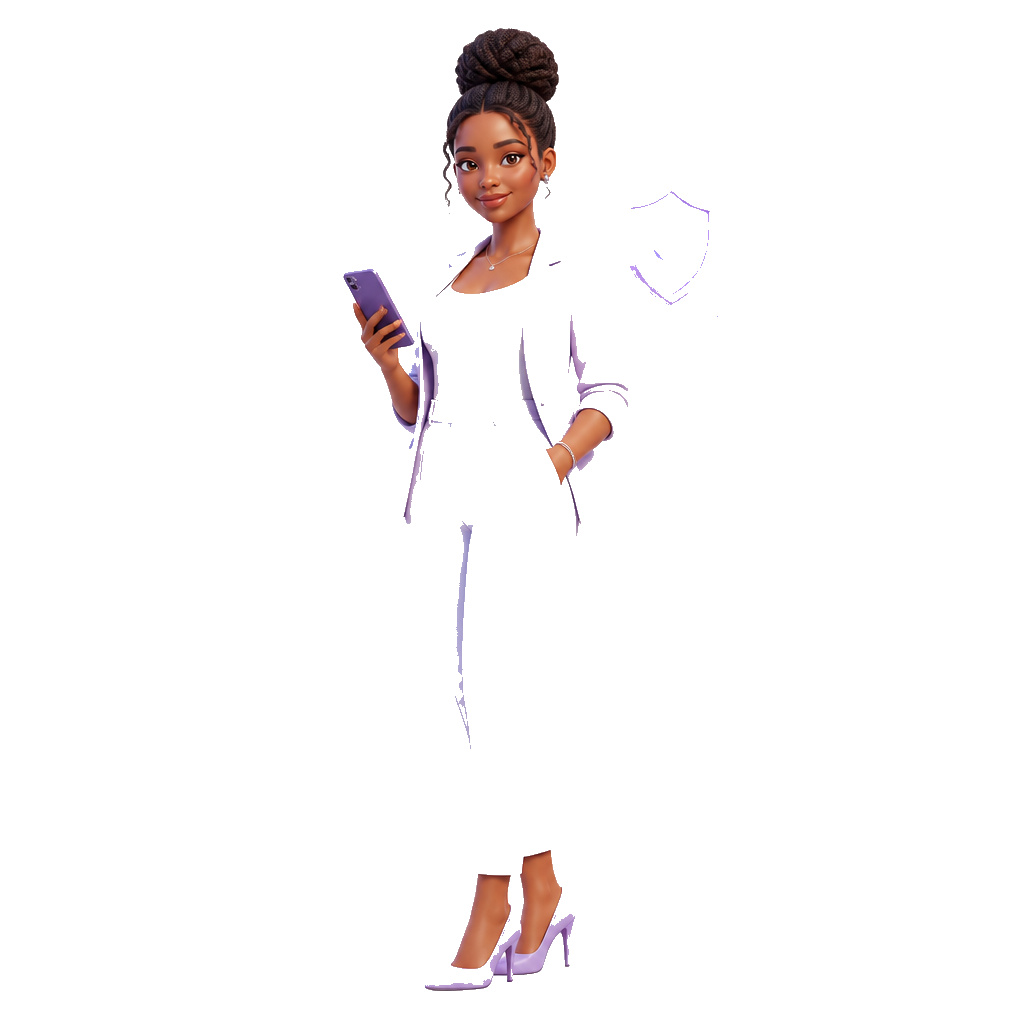
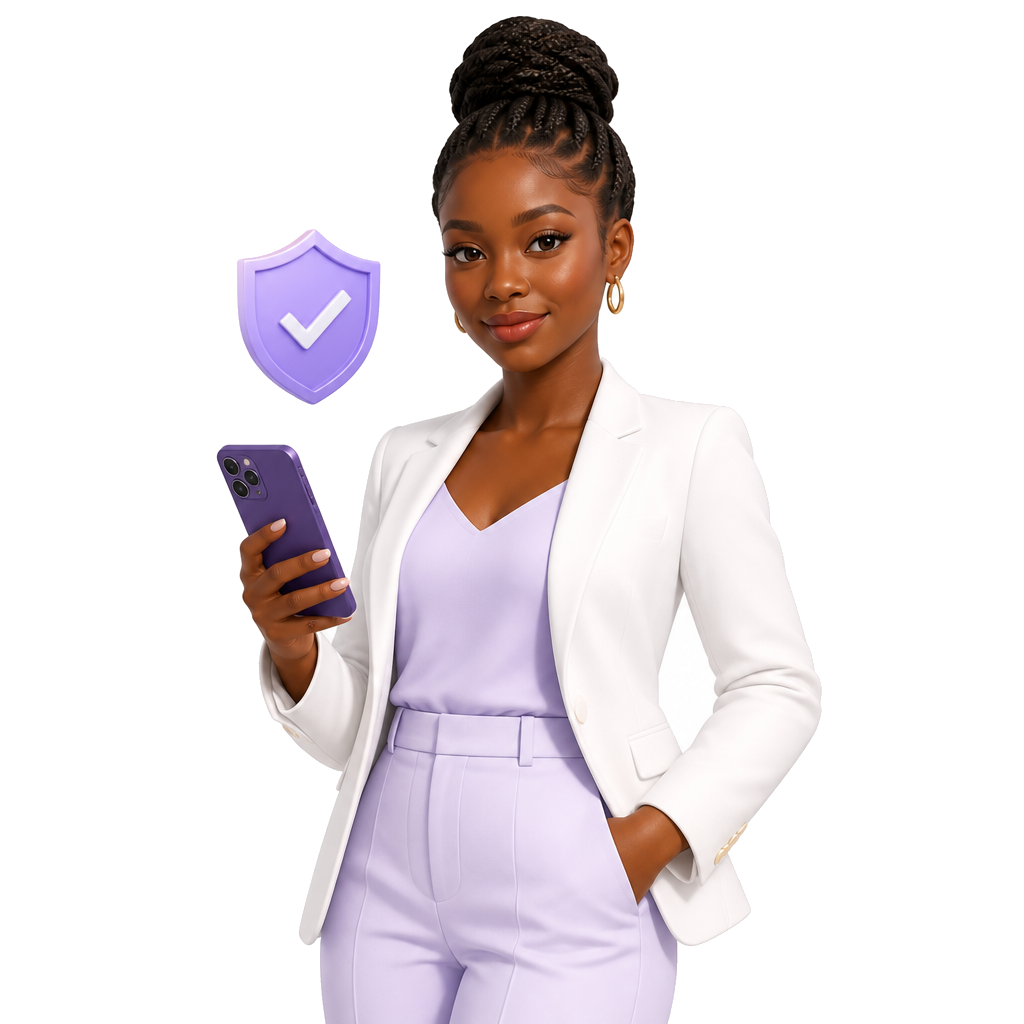
Update styling and assets for sign-in and sign-up pages
Replit-Commit-Author: Agent

Changed region(s): [[0.1875, 0.0, 0.7188, 1.0], [0.625, 0.5, 0.8125, 0.8125], [0.6562, 0.7188, 0.6875, 0.75]]

diff --git a/artifacts/sendflow/src/index.css b/artifacts/sendflow/src/index.css
@@ -63,15 +63,20 @@
 }
 
 .sendflow-signup-shell {
+  position: relative;
   min-height: 100dvh;
   display: flex;
   align-items: flex-start;
   justify-content: center;
-  background: #f8f5ff;
+  overflow: hidden;
+  isolation: isolate;
+  background: radial-gradient(circle at 88% 5%, #eee4ff 0%, #f8f5ff 34%, #f8f5ff 100%);
   padding: 65px 22px 23px;
 }
 
 .sendflow-signup-card {
+  position: relative;
+  isolation: isolate;
   width: min(100%, 650px);
   min-height: calc(100dvh - 105px);
   overflow: hidden;
@@ -79,8 +84,50 @@
   background: #fff;
 }
 
+.sendflow-auth-art {
+  position: absolute;
+  z-index: 0;
+  width: 310px;
+  pointer-events: none;
+  user-select: none;
+}
+
+.sendflow-auth-art.is-signin {
+  top: -26px;
+  right: -86px;
+  transform: rotate(8deg);
+}
+
+.sendflow-auth-art.is-signup {
+  top: -30px;
+  left: -84px;
+  transform: rotate(-8deg);
+}
+
+.sendflow-auth-art-glow {
+  position: absolute;
+  top: 26%;
+  left: 23%;
+  width: 54%;
+  aspect-ratio: 1;
+  border-radius: 50%;
+  background: rgba(147, 104, 235, .2);
+  filter: blur(34px);
+}
+
+.sendflow-auth-art img {
+  position: relative;
+  display: block;
+  width: 100%;
+  height: auto;
+  opacity: .15;
+  mix-blend-mode: multiply;
+}
+
 .sendflow-signup-content {
   display: flex;
+  position: relative;
+  z-index: 1;
   min-height: calc(100dvh - 105px);
   flex-direction: column;
   align-items: stretch;
@@ -568,6 +615,10 @@
   .sendflow-signup-content { padding-inline: 14px; }
   .sendflow-signup-country { flex-basis: 76px; padding-inline: 8px; }
   .sendflow-signup-terms { margin-left: 8px; }
+  .sendflow-auth-art { width: 270px; }
+  .sendflow-auth-art.is-signin { right: -92px; }
+  .sendflow-auth-art.is-signup { left: -92px; }
+  .sendflow-auth-art img { opacity: .12; }
 }
 
 /* Pricing — a clear, editorial fee list inspired by the supplied mobile reference */

diff --git a/artifacts/sendflow/src/pages/sign-up.tsx b/artifacts/sendflow/src/pages/sign-up.tsx
@@ -8,6 +8,7 @@ import { DEFAULT_ACCOUNT_COUNTRY, saveAccountCountry, type AccountCountry } from
 import { saveAccountProfile, splitFullName } from '@/lib/account-profile';
 import sendflowMark from '@assets/sendflow-mark-original.png';
 import sendflowWordmark from '@assets/sendflow-wordmark-original.png';
+import signupIllustration from '@assets/generated_images/sendflow-signup-welcome-3d-clean.png';
 
 type SignUpForm = {
   fullName: string;
@@ -124,8 +125,13 @@ export default function SignupPage() {
   };
 
   return (
-    <main className="sendflow-signup-shell">
+    <main className="sendflow-signup-shell sendflow-auth-shell is-signup">
       <section className="sendflow-signup-card" aria-labelledby="signup-title">
+        <div className="sendflow-auth-art is-signup" aria-hidden="true">
+          <span className="sendflow-auth-art-glow" />
+          <img src={signupIllustration} alt="" loading="eager" decoding="async" />
+        </div>
+
         <div className="sendflow-signup-content">
           <Link href="/sign-up" className="sendflow-signup-brand" aria-label="SendFlow">
             <img src={sendflowMark} alt="" className="sendflow-signup-mark" />

diff --git a/artifacts/sendflow/src/pages/sign-in.tsx b/artifacts/sendflow/src/pages/sign-in.tsx
@@ -9,6 +9,7 @@ import { hasPin } from '@/lib/pin-storage';
 import { AVATAR_USER_KEY } from '@/lib/avatar-bank';
 import sendflowMark from '@assets/sendflow-mark-original.png';
 import sendflowWordmark from '@assets/sendflow-wordmark-original.png';
+import signinIllustration from '@assets/generated_images/sendflow-signin-security-3d-clean.png';
 
 type SignInForm = {
   phone: string;
@@ -73,8 +74,13 @@ export default function SigninPage() {
   };
 
   return (
-    <main className="sendflow-signup-shell">
+    <main className="sendflow-signup-shell sendflow-auth-shell is-signin">
       <section className="sendflow-signup-card" aria-labelledby="signin-title">
+        <div className="sendflow-auth-art is-signin" aria-hidden="true">
+          <span className="sendflow-auth-art-glow" />
+          <img src={signinIllustration} alt="" loading="eager" decoding="async" />
+        </div>
+
         <div className="sendflow-signup-content">
           <Link href="/sign-in" className="sendflow-signup-brand" aria-label="SendFlow">
             <img src={sendflowMark} alt="" className="sendflow-signup-mark" />

diff --git a/.agents/memory/free-image-cleanup.md b/.agents/memory/free-image-cleanup.md
@@ -3,7 +3,7 @@ name: Free image cleanup
 description: Local cleanup for generated PNGs that visually contain a checkerboard background.
 ---
 
-When background-removal tooling is unavailable, generated PNGs can be cleaned locally with ImageMagick by making the near-white checkerboard colors transparent and verifying the result in the rendered app.
+When background-removal tooling is unavailable, generated PNGs can be cleaned locally with ImageMagick by making the near-white checkerboard colors transparent and verifying the result in the rendered app. Prefer generating on a plain white background and using a low-fuzz flood fill; aggressive fuzz can erase light clothing and pale props.
 
 **Why:** The generation pipeline can return a TrueColor PNG with a visible checkerboard even when transparency was requested, and the dedicated removal callback may not be available in the current workspace mode.
 
